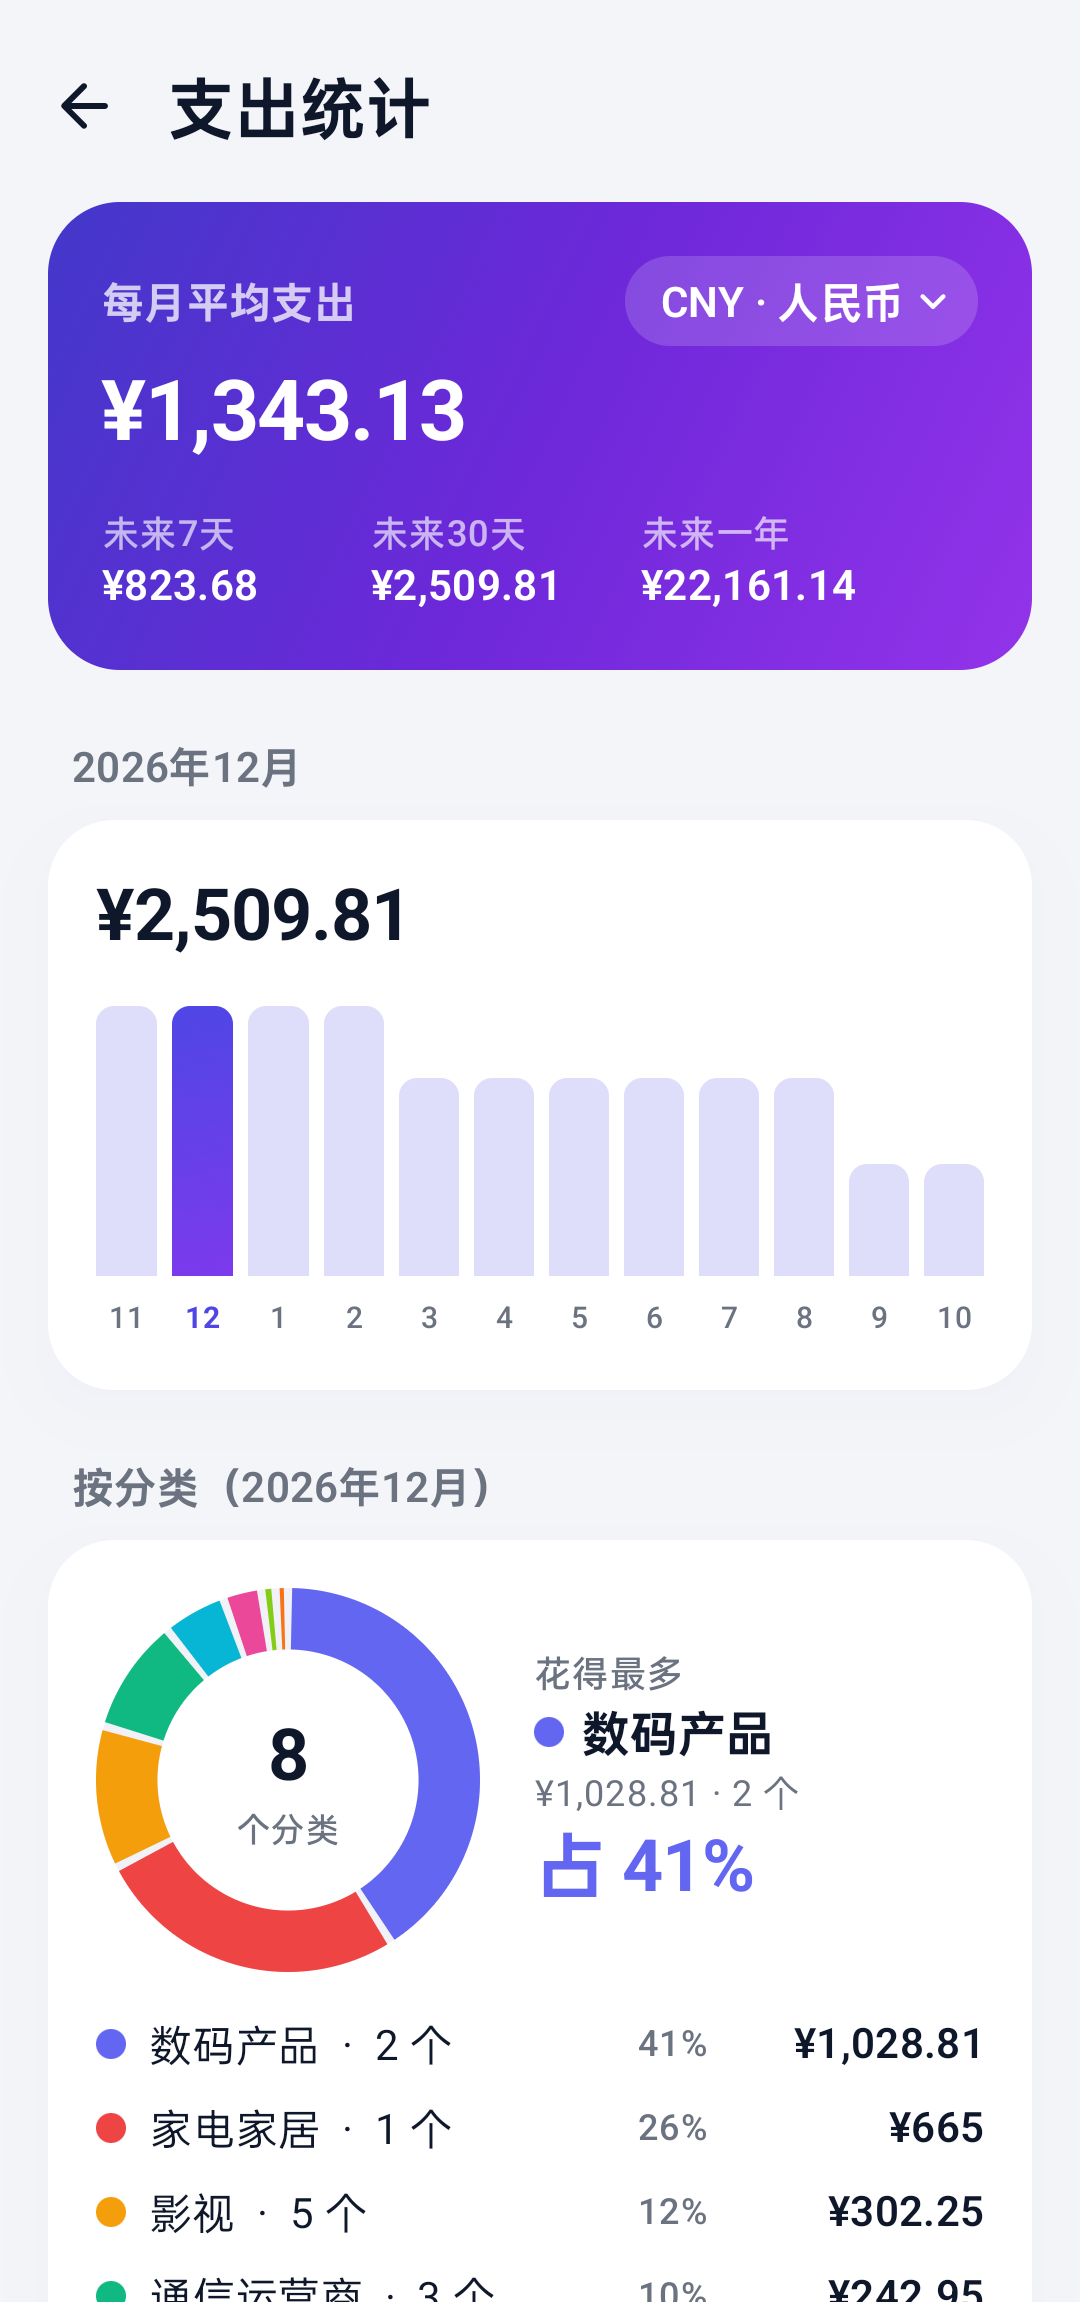
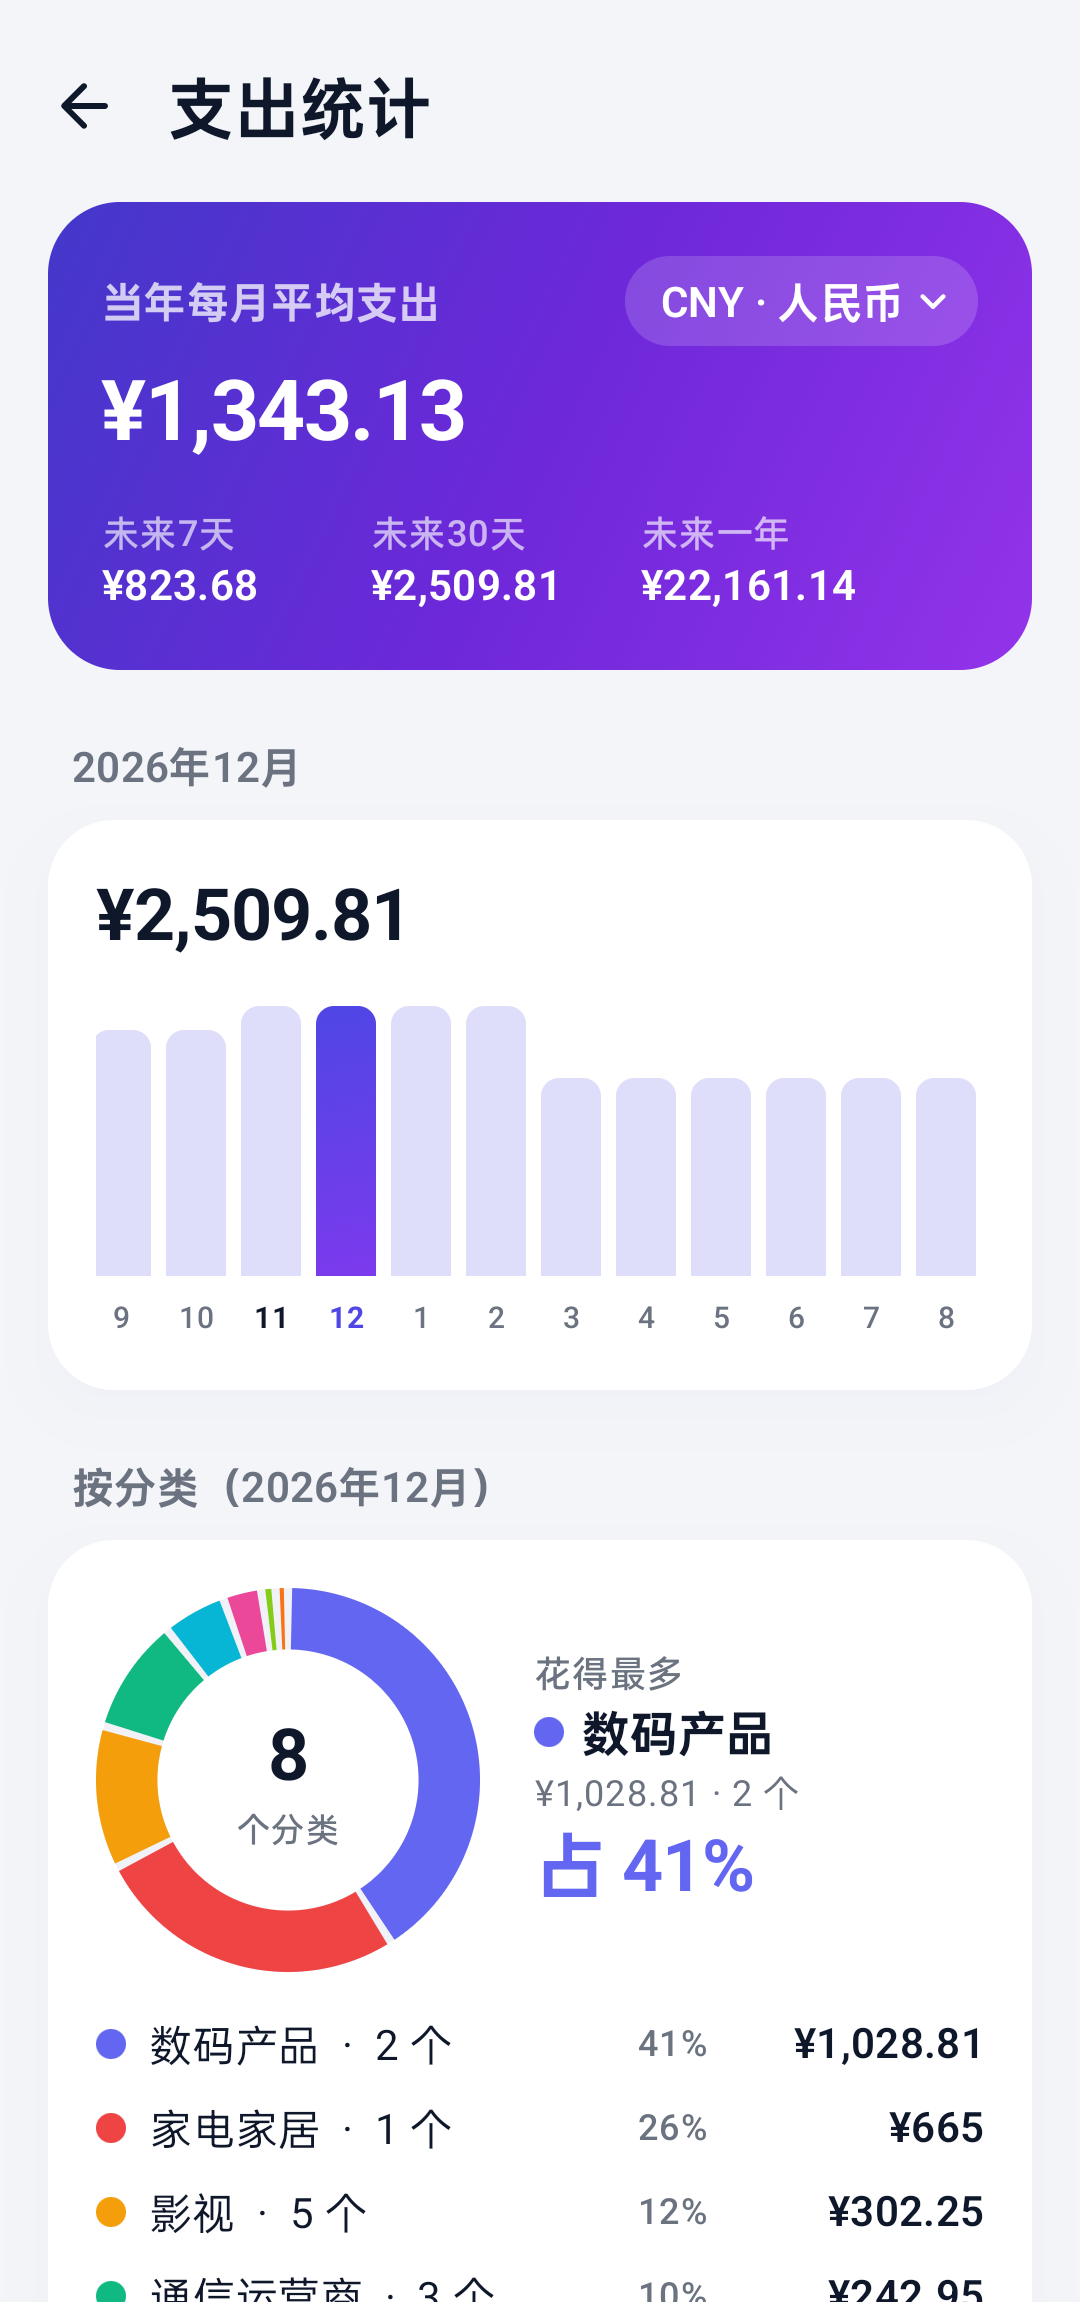
更新 1.4.0 README 截图和说明
- 首页、统计页截图换成当年平均支出和可滑动柱状图的版本
- README 补充起始账单日、删除付款记录回滚和柱状图滑动

diff --git a/CHANGELOG.md b/CHANGELOG.md
@@ -6,7 +6,7 @@
 
 - **统计口径统一**：紫色卡片的大数字是平均支出，按订阅和分期列表推算出今年（1 月到 12 月）应付的总额再平均（每月 = ÷ 12），快还完的分期只算今年的期数；紫色卡片显示为「当年每月平均支出」「当年每周平均支出」，切换到「按年」时显示「当年支出」。其余金额都是实际要付的钱，统一为「未来7天」「未来30天」「未来一年」。修复首页「全年预计」、统计页「每年」和「未来 12 个月待付」三个数字对不上的问题
 - **统计页重做**：
-  - 顶部卡片显示每月平均支出，下面是未来7天 / 未来30天 / 未来一年要付多少
+  - 顶部卡片显示当年每月平均支出，下面是未来7天 / 未来30天 / 未来一年要付多少
   - 每月柱状图移到最上面：可以左右滑动，看前 12 个月和本月起 12 个月，打开时本月在靠左的位置；每个月按账单计划算整月（月初已经扣过的、装 App 之前的账单也算进去）
   - 点某个月（包括过去的月份），下面的分类、花费排行、付款方式、订阅 / 分期、自动 / 手动、币种统计都只看这个月；再点一次或点空白处回到未来一年
   - 分类等统计按实际要付的金额算，快还完的分期只算剩下的期数
